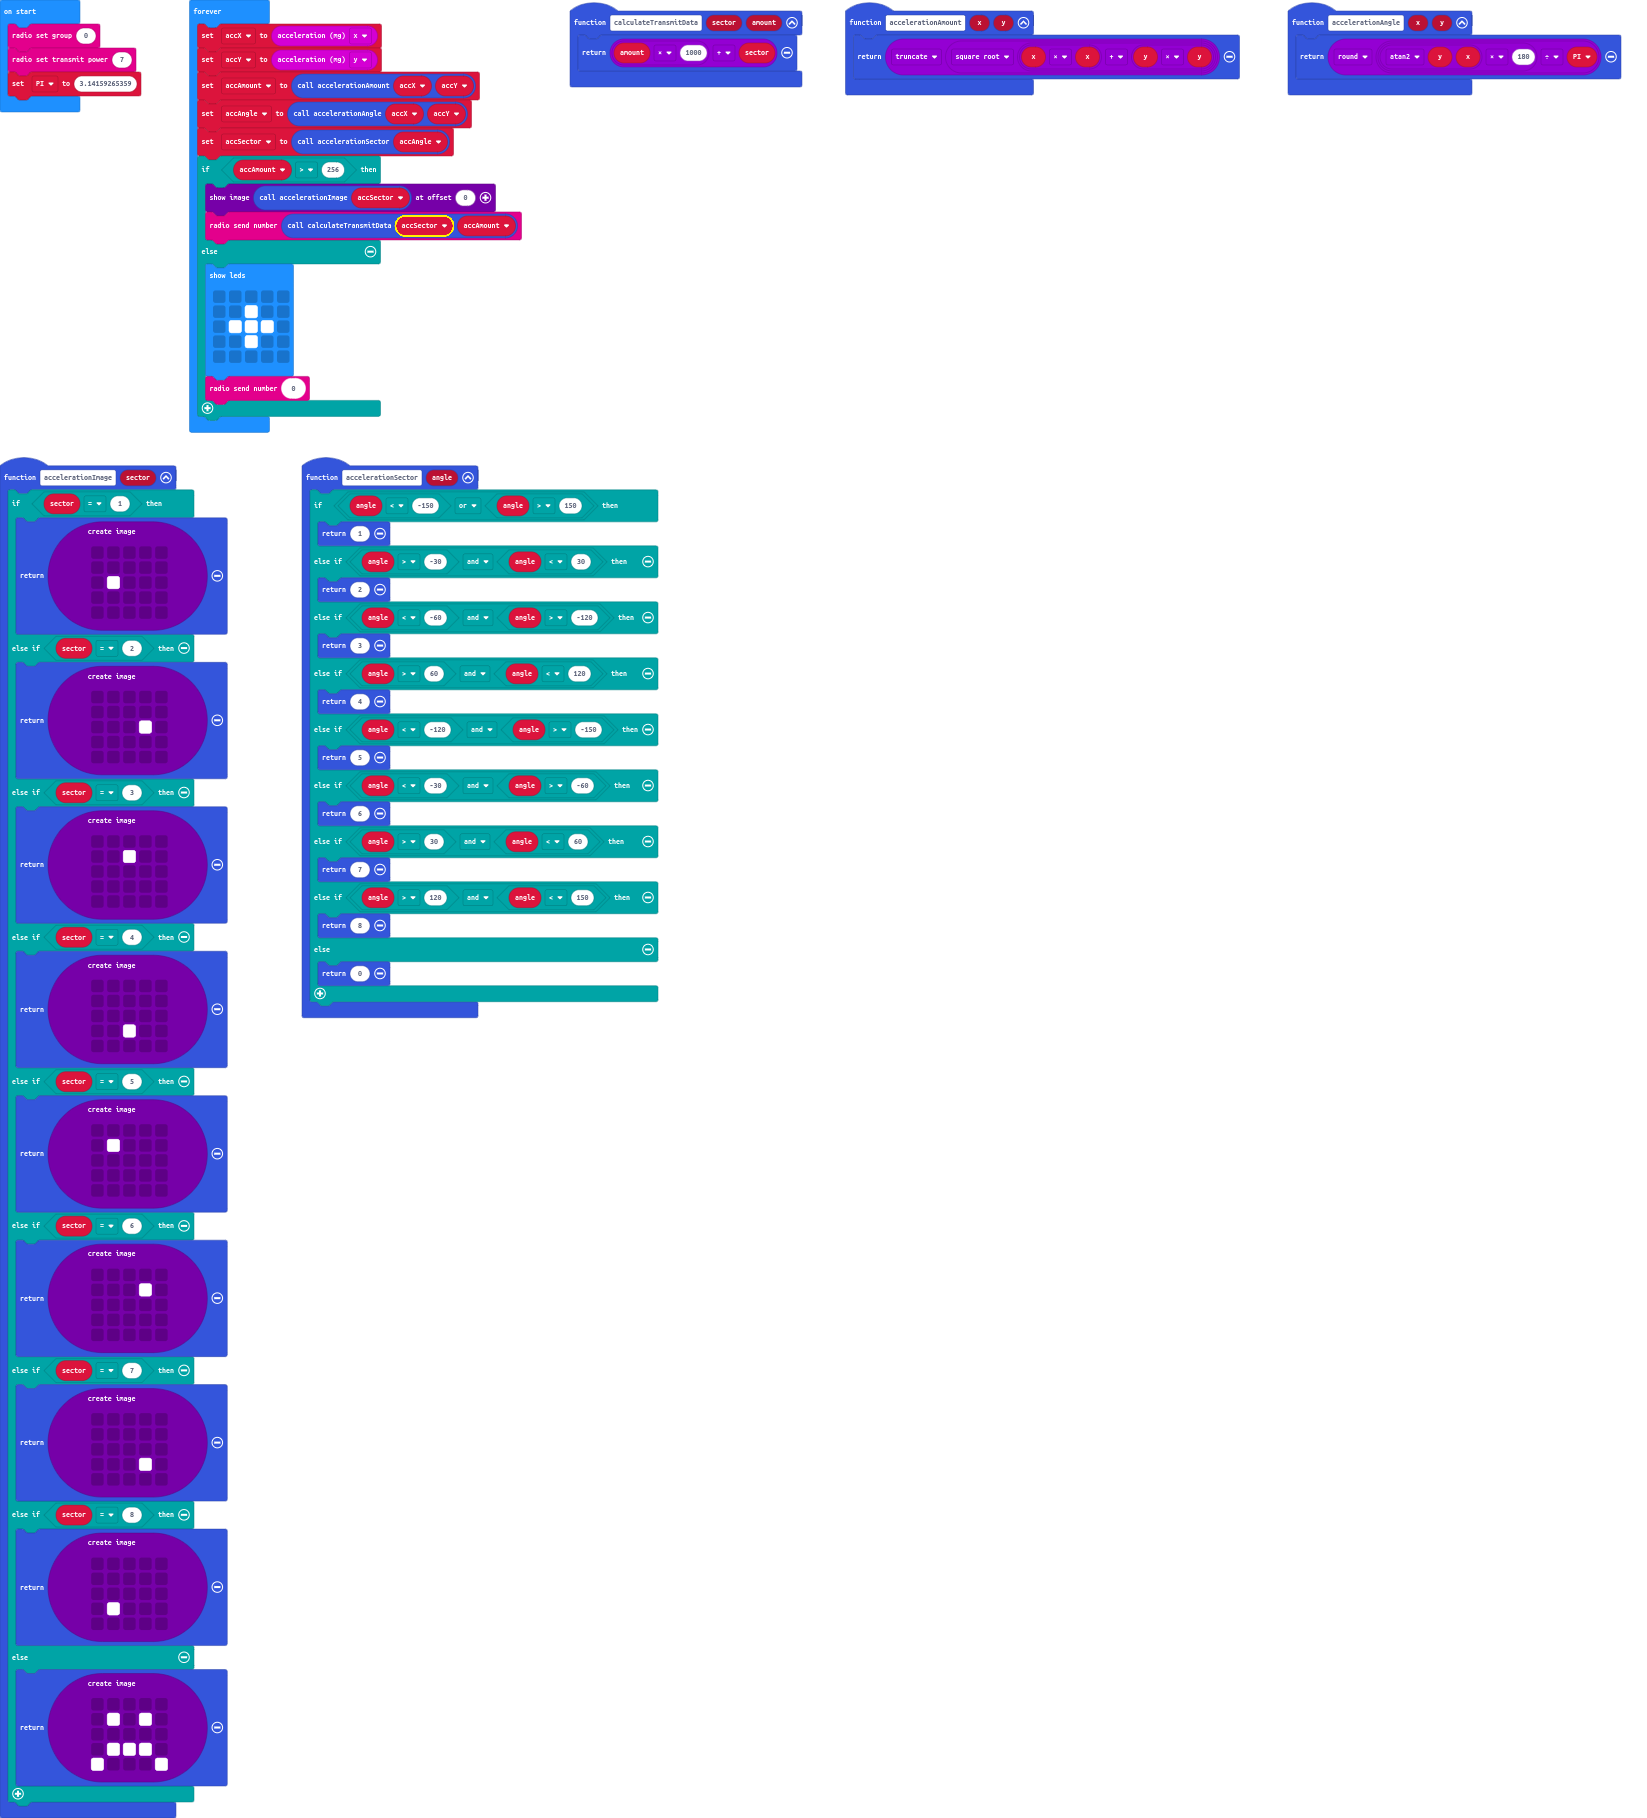
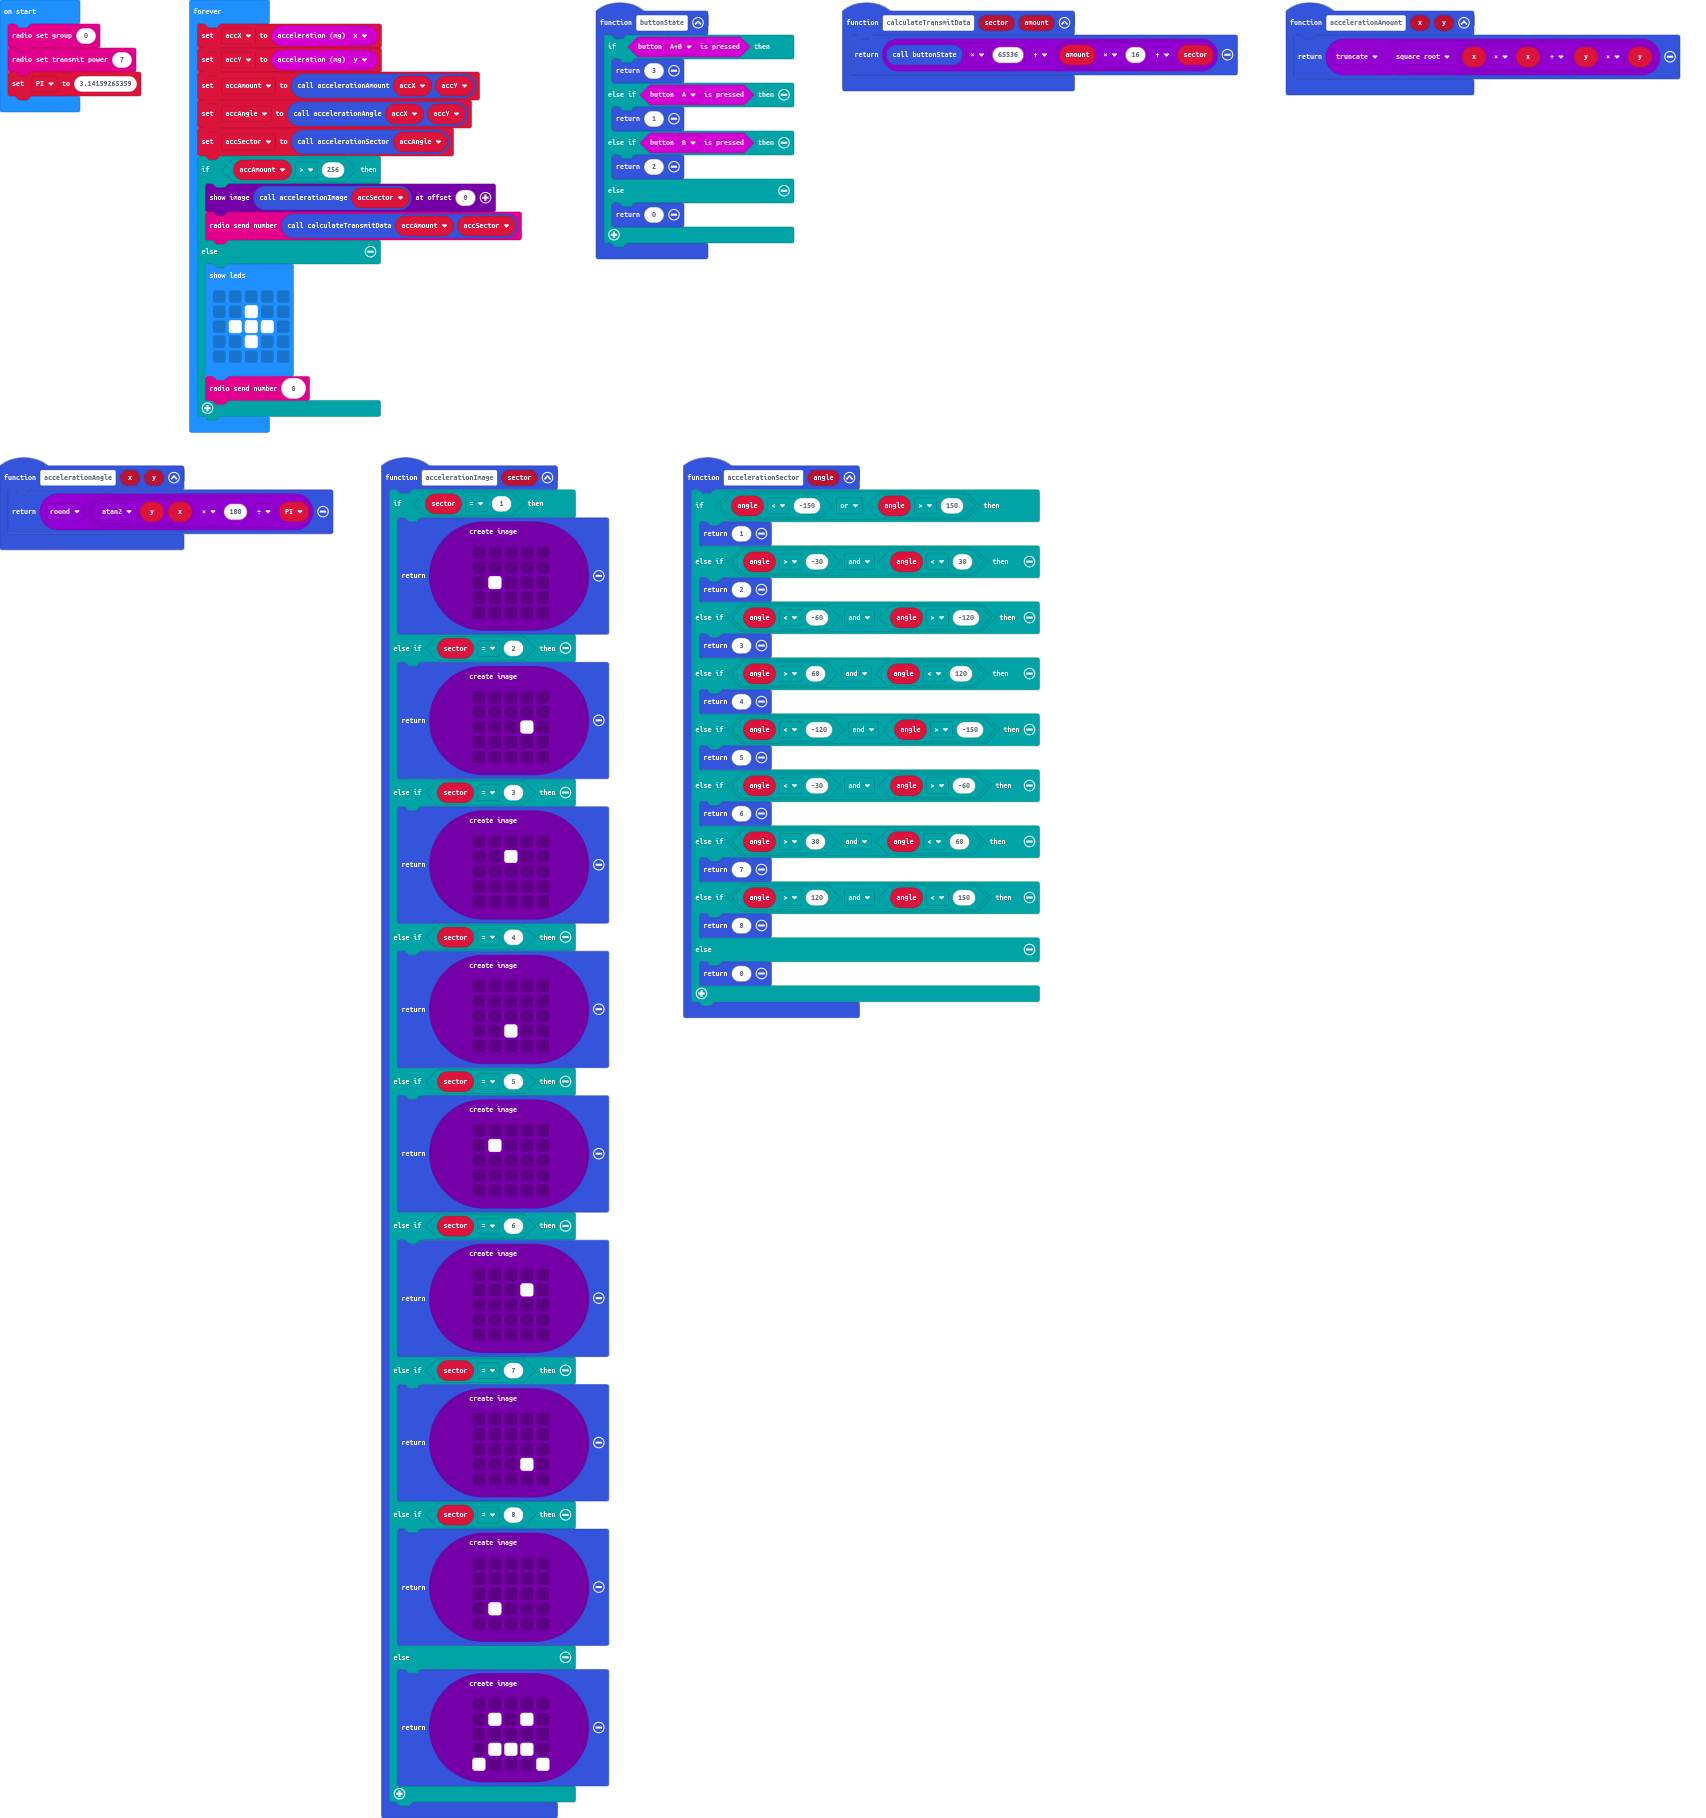
Transmit buttonState

Changed region(s): [[0.0, 0.0, 0.6193, 1.0], [0.3406, 0.0, 0.898, 0.154]]

diff --git a/main.ts b/main.ts
@@ -23,7 +23,7 @@ function accelerationAmount (x: number, y: number) {
     return Math.trunc(Math.sqrt(x * x + y * y))
 }
 function calculateTransmitData (sector: number, amount: number) {
-    return amount * 1000 + sector
+    return buttonState() * 65536 + (amount * 16 + sector)
 }
 function accelerationImage (sector: number) {
     if (sector == 1) {
@@ -102,6 +102,17 @@ function accelerationImage (sector: number) {
 }
 function accelerationAngle (x: number, y: number) {
     return Math.round(Math.atan2(y, x) * 180 / PI)
+}
+function buttonState () {
+    if (input.buttonIsPressed(Button.AB)) {
+        return 3
+    } else if (input.buttonIsPressed(Button.A)) {
+        return 1
+    } else if (input.buttonIsPressed(Button.B)) {
+        return 2
+    } else {
+        return 0
+    }
 }
 let accSector = 0
 let accAngle = 0
